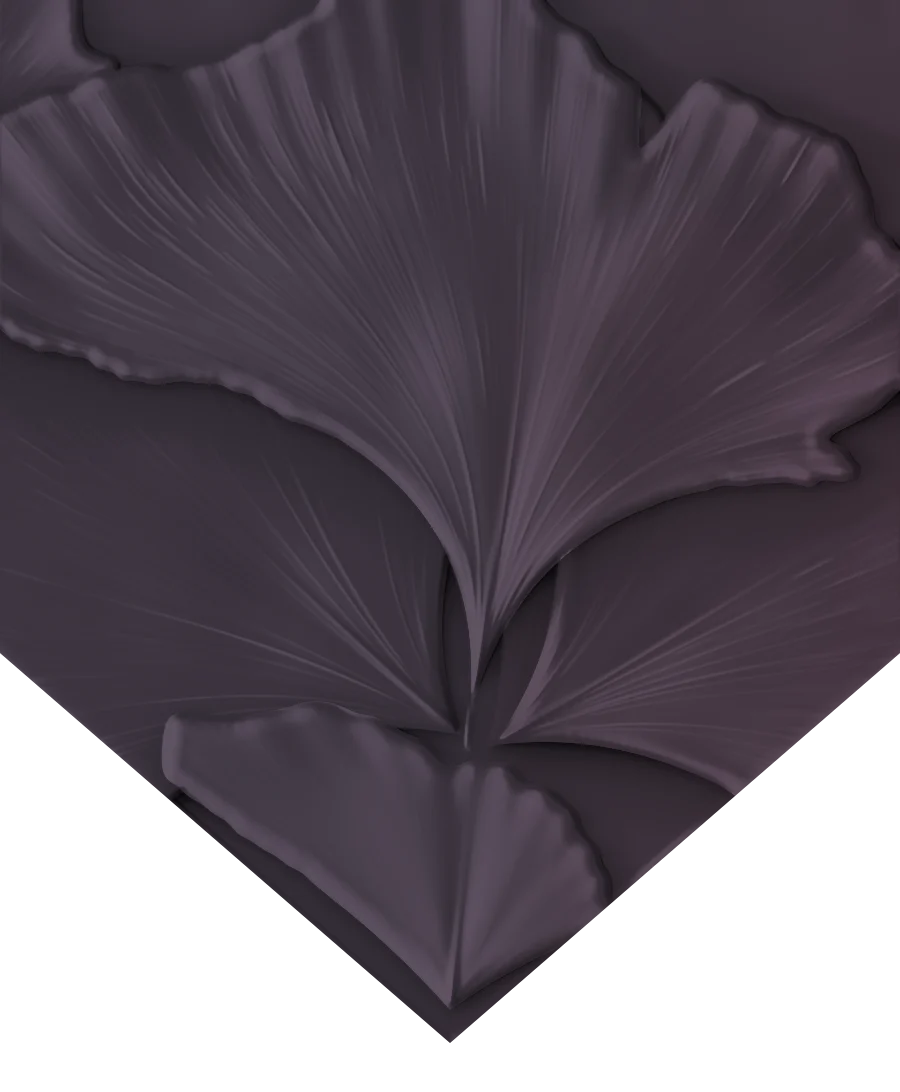
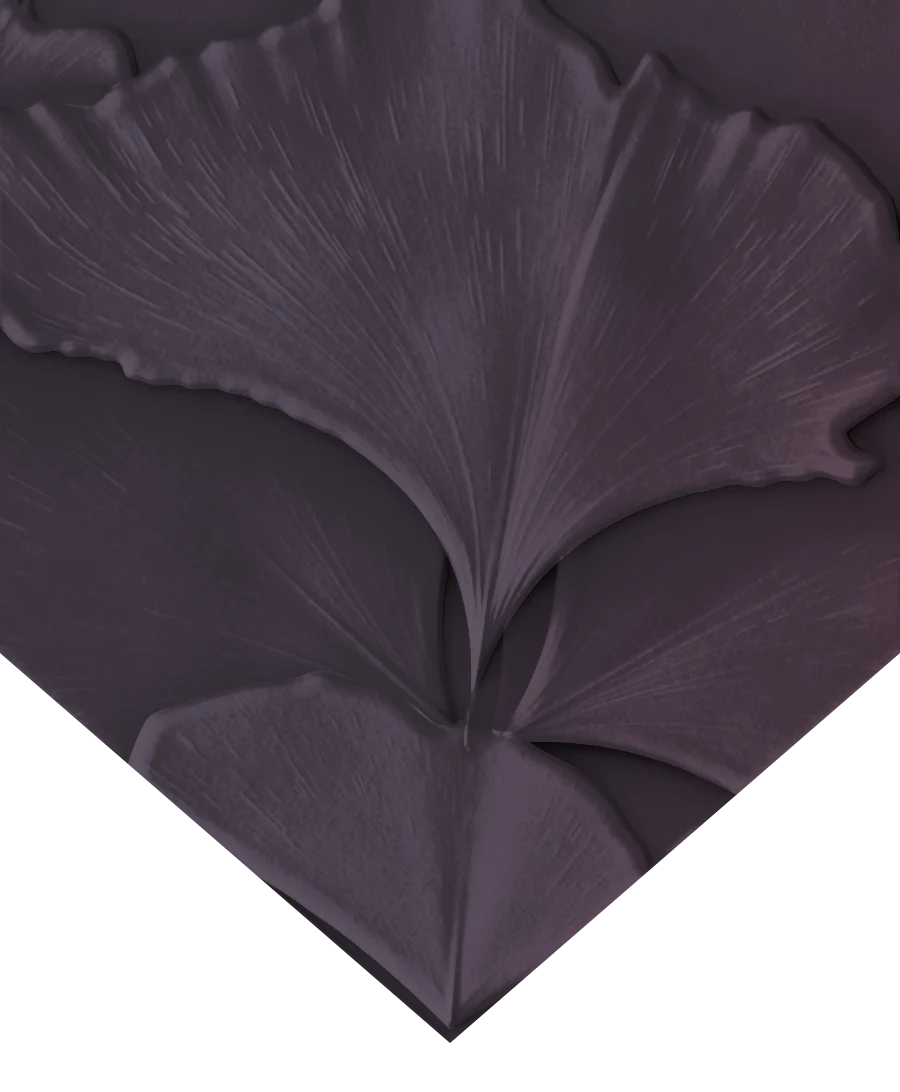
Website: envelope leaves matte with fine grain and hairline veins, more leaf coverage round the seal, looser ruffles, warmer pink lower right

diff --git a/Wedding Website/tools/ginkgo_env.py b/Wedding Website/tools/ginkgo_env.py
@@ -65,23 +65,26 @@ def pearl_shade(hgt, tint, ao=None, shadow=None):
     wrap = np.clip((nl + 0.35) / 1.35, 0, 1)
     broad = nh ** 5; spec = nh ** 24
     lit = 1.0 if shadow is None else 1 - shadow
-    lum = 0.15 + 0.40 * wrap * (0.42 + 0.58 * lit) + (0.52 * diff + 0.07 * broad) * lit
+    lum = 0.20 + 0.50 * wrap * (0.42 + 0.58 * lit) + 0.38 * diff * lit          # matte plaster: no sheen
     if ao is not None:
         lum = lum * (1 - ao)
     silver = np.array([176, 175, 188], np.float32); mauve = np.array([178, 151, 165], np.float32)
     alb = silver[None, None] * (1 - tint[..., None]) + mauve[None, None] * tint[..., None]
-    col = alb * lum[..., None] + np.array([255, 248, 255], np.float32) * (0.045 * spec * lit)[..., None]
+    col = alb * lum[..., None] + np.array([255, 248, 255], np.float32) * (0.0 * spec * lit)[..., None]
     return np.clip(col, 0, 255)
 
 def shade_sheet(hgt, tint):
     """full lighting of a composited height field: normals + cast shadows + ambient occlusion"""
     hs = cv2.GaussianBlur(hgt, (0, 0), max(0.7, 1.15 * SS))
+    hh_, ww_ = hs.shape                                             # fine plaster tooth
+    hs = hs + 0.22 * (noise(hh_, ww_, max(2, int(9 * SS)), 2, 71) - 0.5) + 0.07 * cv2.GaussianBlur(
+        np.random.default_rng(72).standard_normal((hh_, ww_)).astype(np.float32), (0, 0), max(0.6, 1.3 * SS)) * max(1.0, 1.3 * SS)
     sh = cast_shadow(hs) * SHADOW_K
     ao = (AO_K[0] * np.clip((cv2.GaussianBlur(hs, (0, 0), 9 * SS) - hs) / 12.0, 0, 1)
           + AO_K[1] * np.clip((cv2.GaussianBlur(hs, (0, 0), 34 * SS) - hs) / 30.0, 0, 1))
     return pearl_shade(hs, tint, ao=ao, shadow=sh), sh
 
-GLOSS_K = 0.13                # strength of the painted sheen (before the tone match)
+GLOSS_K = 0.085                # strength of the painted sheen (before the tone match)
 SHADOW_K = 0.56               # depth of the cast shadows (soft, never an ink outline)
 AO_K = (0.05, 0.30)           # contact / broad ambient occlusion
 DROP_K = (0.46, 0.58, 0.30)         # tight / wide contact shadow under every overlapping leaf (the stacked look)
@@ -109,7 +112,7 @@ def _wave(s, lam, rr, n=3):
 
 def leaf_fields(cx, cy, R=300, ang=-90, spread=55, seed=0, f0=0.15, flare=0.8, bend=0.0, droop=0.12, lobes=1.0, ruffle=1.0,
                 notch=0.0, notch_t=0.0, veins=1.0, thick=4.0, curl=0.6, cup=0.45, fold=0.7, stem=0.0, stem_bend=0.0,
-                bbox=None, pts=None, rim=1.0, lumps=0.55, fexp=1.2, **_):
+                bbox=None, pts=None, rim=1.0, lumps=0.55, fexp=1.2, lap_pt=None, lap=3.0, **_):
     """one sculpted ginkgo leaf: returns (x0, y0, alpha, height, vein) on the texture grid.
     Petiole end at (cx, cy) design px, blade pointing ang (deg), length R, half-angle `spread` at the margin.
     The sides are concave (the fan flares out with distance) and the veins follow that flare."""
@@ -137,7 +140,9 @@ def leaf_fields(cx, cy, R=300, ang=-90, spread=55, seed=0, f0=0.15, flare=0.8, b
     s = tcl * sp * R                                                        # arc position along the margin
     ph = rr.random(8) * 6.283
     # margin: broad lobes, scallops, crinkles and little torn nicks
-    w1 = _wave(s, 190, rr); w2 = _wave(s, 85, rr); w3 = _wave(s, 34, rr)
+    w1 = _wave(s, 240, rr); w2 = _wave(s, 105, rr); w3 = _wave(s, 46, rr)
+    renv = 0.25 + 0.75 * smooth01(0.5 + 0.55 * _wave(s, 420, rr, 2))                     # ruffles come in loose bunches
+    w1 = w1 * (0.5 + 0.5 * renv); w2 = w2 * renv; w3 = w3 * renv
     edge = R * (1 - droop * np.abs(tcl) ** 2.5 + lobes * 0.065 * _wave(s, 0.8 * sp * R, rr, 2))
     if prof is not None:                                                     # the traced outline, lobe by lobe
         tt = np.linspace(-1.25, 1.25, 501)
@@ -145,9 +150,9 @@ def leaf_fields(cx, cy, R=300, ang=-90, spread=55, seed=0, f0=0.15, flare=0.8, b
         ks = max(1.0, 7.0 / (sp * R) * 200)                                  # round the corners over ~7 px of arc
         pr = cv2.GaussianBlur(pr.reshape(1, -1).astype(np.float32), (0, 0), ks, borderType=cv2.BORDER_REPLICATE).ravel()
         edge = R * np.interp(tcl, tt, pr).astype(np.float32)
-        edge = edge + ruffle * (5.5 * w1 + 2.4 * w2 + 0.5 * w3)              # soft ruffles on top of the traced lobes
+        edge = edge + ruffle * (9.0 * w1 + 5.0 * w2 + 1.2 * w3)              # soft ruffles on top of the traced lobes
     else:
-        edge = edge + ruffle * (12.0 * w1 + 3.0 * w2 + 0.5 * w3)
+        edge = edge + ruffle * (15.0 * w1 + 6.0 * w2 + 1.2 * w3)
         for _c in range(int(rr.integers(1, 3))):                             # one or two little tears
             tn = rr.uniform(-0.8, 0.8)
             edge = edge - ruffle * rr.uniform(0.03, 0.06) * R * np.exp(-((tcl - tn) / rr.uniform(0.02, 0.035)) ** 2)
@@ -176,21 +181,27 @@ def leaf_fields(cx, cy, R=300, ang=-90, spread=55, seed=0, f0=0.15, flare=0.8, b
     ctab = np.clip((ctab - ctab.mean()) / (ctab.std() + 1e-6) * 0.5 + 0.45, 0, 1)
     comb = np.interp((np.clip(t, -1.25, 1.25) + 1.25) / 2.5 * (ncomb - 1), np.arange(ncomb), ctab).astype(np.float32)
     band = np.exp(-((dm - 14.0) / 12.0) ** 2) * smooth01(dm / 4.0)
-    lip = np.exp(-((dm - 12.0) / 9.0) ** 2) * lipv                                         # the rolled lip just inside the edge
-    h = h + rim * ((1 - wm) * 1.4 * lip + wm * (1.7 * lip + 0.10 * band * comb))
+    lip = np.exp(-((dm - 15.0) / 12.0) ** 2) * lipv                                         # the rolled lip just inside the edge
+    h = h + rim * ((1 - wm) * 1.4 * lip + wm * (1.7 * lip + 0.03 * band * comb))
     h = h + cup * 6.0 * np.sin(math.pi * rc ** 0.85) * (0.7 + 0.3 * np.cos(1.7 * tcl + ph[0])) * smooth01(rc / 0.2)
     h = h - fold * 4.0 * np.exp(-(tcl / 0.16) ** 2) * smooth01((rc - 0.05) / 0.4)        # shallow valley on the axis
+    if lap_pt is not None:                                                               # one lobe lies softly over the other at a split
+        lr = math.hypot(lap_pt[0] - cx, lap_pt[1] - cy)
+        lt = (math.atan2(lap_pt[1] - cy, lap_pt[0] - cx) - math.radians(bend) * lr / R - math.radians(ang)) / sp
+        lt = lt + 0.025 * np.sin(rc * 9.0 + ph[4]) * rc
+        h = h + lap * smooth01((tcl - lt) / 0.035 + 0.5) * np.exp(-np.clip(tcl - lt, 0, None) / 0.22) * smooth01((rc - 0.38) / 0.35)
     for _i in range(int(rr.integers(2, 4))):                                              # broad soft radial folds
         tc = rr.uniform(-0.85, 0.85); wd = rr.uniform(0.10, 0.25); amp = rr.choice([-1, 1]) * rr.uniform(0.4, 1.0)
         h = h + amp * np.exp(-((tcl - tc) / wd) ** 2) * smooth01((rc - 0.12) / 0.4)
     nearm = smooth01((rc - 0.70) / 0.30) ** 1.3
-    h = h + curl * (7.5 * smooth01((rc - 0.66) / 0.34) ** 2 + nearm * (5.0 * w1 + 2.2 * w2))   # margin curls up, fluted
+    h = h + curl * (7.5 * smooth01((rc - 0.66) / 0.34) ** 2 + smooth01((rc - 0.80) / 0.20) * ruffle * (4.0 * w1 + 2.2 * w2 + 0.6 * w3))   # margin curls up, fluted
     h = h + curl * 3.5 * np.exp(-ds / 22.0) * smooth01((rc - 0.2) / 0.3) * (1 + 0.08 * sw)   # sides roll up
     # veins: fine ridges of constant t (so they bend with the flare); sparse, most of them faint
     arc = A * r
     vein = np.zeros_like(h)
     vw = max(1.15, 0.8 / SS)
-    for f, amp in ((10, 1.0), (22, 0.9), (46, 0.8), (94, 0.75), (190, 0.7), (380, 0.6)):
+    hv = max(veins, 0.6) / max(veins, 1e-3)
+    for f, amp in ((10, 0.8), (22, 0.7), (46, 0.8), (94, 0.9), (190, 0.9), (380, 0.85), (760, 0.7), (1100, 0.6)):
         tj = t + (0.40 / f) * np.sin(t * f * 0.61 + ph[f % 7]) + (0.22 / f) * np.sin(t * f * 1.37 + ph[(f + 2) % 7])
         u = (tj + 1) * f * 0.5
         idx = np.round(u)
@@ -200,12 +211,12 @@ def leaf_fields(cx, cy, R=300, ang=-90, spread=55, seed=0, f0=0.15, flare=0.8, b
         if f <= 22:                                                      # primary veins: long, strongest by the petiole
             along = (0.15 + 0.85 * (1 - smooth01((rc - 0.2) / 0.55))) * smooth01((rnd - 0.25) / 0.3)
         else:                                                            # hair-fine streaks: short soft dashes
-            along = smooth01(1.6 * np.sin(rc * (7.0 + 16.0 * rnd2) + rnd * 6.283) - 0.55) * smooth01((rnd2 - 0.15) / 0.25) * (0.35 + 0.65 * smooth01((rc - 0.45) / 0.4))
-        on = smooth01((arc * 2 / f - 3.2) / 3.5)
-        vein += amp * rnd ** 1.25 * along * on * np.exp(-(dpx / vw) ** 2)
+            along = hv * smooth01(1.6 * np.sin(rc * (11.0 + 30.0 * rnd2) + rnd * 6.283 + 2.0 * np.sin(rc * 9.0 + rnd2 * 40.0)) - 0.35) * smooth01((rnd2 - 0.08) / 0.2) * (0.50 + 0.50 * smooth01((rc - 0.35) / 0.45))
+        on = smooth01((arc * 2 / f - 2.6) / 3.0)
+        vein += amp * rnd ** 1.1 * along * on * np.exp(-(dpx / vw) ** 2)
     vis = 0.50 + 0.50 * np.sin(2.3 * tcl + 3.1 * rc + ph[1]) ** 2
     vein = np.clip(veins * vis * vein * smooth01((rn - 0.02) / 0.10) * (1 - 0.7 * smooth01((rn - 0.9) / 0.1)), 0, 1.4)
-    h = h + 0.80 * vein
+    h = h + 0.60 * vein
     # hand-modelled surface: soft lumps and a fine tooth
     hh_, ww_ = h.shape
     h = h + lumps * 9.0 * (noise(hh_, ww_, max(2, int(150 * SS)), 2, seed + 7) - 0.5) * smooth01(rc / 0.3)
@@ -213,12 +224,12 @@ def leaf_fields(cx, cy, R=300, ang=-90, spread=55, seed=0, f0=0.15, flare=0.8, b
     stri = np.zeros_like(h)
     um = ((np.clip(t, -1.3, 1.3) + 1.3) / 2.6).astype(np.float32); vm = np.clip(rc, 0, 1).astype(np.float32)
     for nu in (160, 320, 640, 1280):
-        tex = rr.random((7, nu)).astype(np.float32) - 0.5                 # long silky streaks
-        smp = cv2.remap(tex, um * (nu - 1), vm * 6, cv2.INTER_CUBIC, borderMode=cv2.BORDER_REFLECT)
+        tex = rr.random((26, nu)).astype(np.float32) - 0.5                 # short broken streaks
+        smp = cv2.remap(tex, um * (nu - 1), vm * 25, cv2.INTER_CUBIC, borderMode=cv2.BORDER_REFLECT)
         spc = 2.6 * arc / nu
         stri += smp * smooth01((spc - 1.0) / 1.0) * (1 - smooth01((spc - 2.4) / 1.6))
     stri = stri * (0.15 + 0.85 * smooth01((noise(hh_, ww_, max(2, int(70 * SS)), 2, seed + 9) - 0.42) / 0.2))   # patchy: smooth areas between the streaks
-    h = h + 0.14 * veins * stri * (0.35 + 0.65 * vis) * smooth01((rn - 0.04) / 0.12)
+    h = h + 0.07 * max(veins, 0.4) * stri * (0.35 + 0.65 * vis) * smooth01((rn - 0.04) / 0.12)
     # petiole: a round stalk behind the base, running on into the blade as a ridge
     ca, sa = math.cos(math.radians(ang)), math.sin(math.radians(ang))
     u = dx * ca + dy * sa; v = -dx * sa + dy * ca
@@ -232,9 +243,9 @@ def leaf_fields(cx, cy, R=300, ang=-90, spread=55, seed=0, f0=0.15, flare=0.8, b
         alpha = np.maximum(alpha, a_st)
     # painted sheen: the top of the rolled rim, the vein ridges and the silky streaks catch the light
     roll = np.exp(-((dm - 10.0) / 8.0) ** 2)
-    rimg = rim * ((1 - wm) * 0.20 * roll * (0.5 + 0.5 * lipv) + wm * (0.30 * roll * (0.6 + 0.4 * lipv) + 0.25 * band * comb))
+    rimg = rim * ((1 - wm) * 0.08 * roll * (0.5 + 0.5 * lipv) + wm * (0.10 * roll * (0.6 + 0.4 * lipv) + 0.05 * band * comb))
     strk = np.clip(stri, -0.3, 1.0) * (0.35 + 0.65 * vis) * smooth01((rn - 0.04) / 0.12)                     # signed: light and dark streaks
-    gloss = rimg + veins * (1.50 * np.clip(vein, 0, 1) + 0.38 * strk)
+    gloss = rimg + max(veins, 0.7) * (1.25 * np.clip(vein, 0, 1) + 0.16 * strk)
     return x0, y0, alpha.astype(np.float32), (h * HSCALE).astype(np.float32), vein.astype(np.float32), gloss.astype(np.float32)
 
 def stem_fields(pts, width, bbox=None):
@@ -295,7 +306,10 @@ class Canvas:
 
     def render(self):
         rgb, sh = shade_sheet(self.hg, self.tint)
-        rgb = rgb * (self.alb * (1 - self.dark) * (1 - self.drop))[..., None]
+        gr = cv2.GaussianBlur(np.random.default_rng(73).standard_normal((self.h, self.w)).astype(np.float32), (0, 0), max(0.55, 0.9 * SS))
+        gr = gr / (gr.std() + 1e-6)                                 # matte grain + faint mottling of the plaster
+        mot = noise(self.h, self.w, max(2, int(26 * SS)), 3, 74) - 0.5
+        rgb = rgb * (self.alb * (1 - self.dark) * (1 - self.drop) * (1 + 0.011 * gr + 0.028 * mot))[..., None]
         g = cv2.GaussianBlur(self.gl, (0, 0), max(0.5, 0.8 * SS)) * (0.40 + 0.60 * (1 - sh)) * (1 - self.dark) * (1 - self.drop)
         return np.clip(rgb + GLOSS_K * g[..., None] * GLOSS[None, None], 0, 255)
 
@@ -335,15 +349,17 @@ BOT_T, HEM_T = 8.0, 3.5                       # paper thickness of the bottom fl
 
 # leaves, bottom layer first (design px). `pts` = the leaf margin traced from the rectified reference video, lobe by lobe.
 SIDE_LEAVES = [                               # on the two side flaps (the bottom flap lies over their lower ends)
+    dict(cx=1010, cy=1330, R=640, ang=-112, spread=40, seed=117, tint=0.16, tone=0.95, veins=0.5, ruffle=1.3, f0=0.45, lumps=0.9, cup=0.4),   # R3 fills the right flap up to the mouth
     dict(cx=-20, cy=630, seed=100, tone=0.92, ruffle=0.8, f0=0.6, veins=0.55, bend=14, lumps=1.1, cup=0.7,
          pts=[(420, 930), (370, 1000), (335, 1080), (285, 1160), (150, 1225), (-10, 1270), (-90, 1270)]),                 # L1 streaky, fills the left flap
     dict(cx=1010, cy=1520, R=540, ang=-124, spread=36, seed=115, tint=0.10, tone=0.95, veins=0.3, ruffle=0.9, f0=0.4, lumps=0.8),   # R2 under R0, fills the lower right
     dict(cx=350, cy=1500, R=440, ang=-84, spread=36, seed=104, tone=0.96, veins=0.45, ruffle=1.0, f0=0.3),   # L3 lies over the foot of L1, left of the seal
-    dict(cx=930, cy=960, seed=113, tint=0.10, ruffle=1.2, veins=0.2, f0=0.5, cup=0.3, fold=0.2, lumps=0.9,
-         pts=[(700, 845), (690, 800), (705, 762), (780, 748), (835, 772), (890, 790)]),                 # R1 small, upper right
+    dict(cx=-190, cy=930, R=445, ang=-2, spread=54, seed=118, tone=1.0, veins=0.7, ruffle=1.5, thick=5.0, f0=0.5, lumps=0.9, cup=0.45, fold=0.3, curl=0.5, rim=0.7),   # L4 big soft leaf filling the left flap
+    dict(cx=930, cy=960, seed=113, tint=0.14, ruffle=1.6, veins=0.3, f0=0.5, cup=0.3, fold=0.2, lumps=0.9,
+         pts=[(668, 880), (640, 820), (662, 760), (740, 728), (835, 740), (900, 770)]),                 # R1 small, upper right
     dict(cx=190, cy=1440, seed=102, tone=0.94, f0=0.2,
          pts=[(-25, 1200), (10, 1140), (60, 1080), (130, 1035), (230, 1030), (290, 1085), (335, 1160)]),   # L2 rising on the left
-    dict(cx=520, cy=1330, seed=112, tint=0.14, ruffle=1.3, veins=0.18, f0=0.5, curl=0.9, lumps=0.9, cup=0.3, fold=0.2,
+    dict(cx=520, cy=1330, seed=112, tint=0.14, ruffle=1.5, veins=0.3, f0=0.5, curl=0.55, lumps=0.9, cup=0.3, fold=0.2,
          pts=[(530, 960), (545, 895), (610, 868), (700, 872), (745, 905), (785, 955), (850, 1020), (878, 1080),
               (870, 1150), (840, 1200)]),                                                               # R0 soft, right of the seal
 ]
@@ -358,9 +374,9 @@ BOT_LEAVES = [                                # on the bottom flap
     dict(cx=490, cy=1885, seed=133, f0=0.3, flare=0.6, bend=-45, veins=0.65, ruffle=1.5,
          pts=[(100, 1592), (55, 1562), (5, 1520), (-30, 1440), (-10, 1370), (60, 1310), (150, 1255), (260, 1215)]),                                                               # B2 big left
     dict(cx=1100, cy=1650, seed=134, tint=0.22, f0=0.6, veins=0.8, ruffle=0.5,
-         pts=[(620, 1120), (585, 1160), (560, 1200), (555, 1245), (552, 1290), (525, 1305), (480, 1340), (456, 1420), (452, 1500), (462, 1585), (502, 1652)]),   # B3 big pink
+         pts=[(620, 1120), (585, 1160), (560, 1200), (548, 1238), (530, 1262), (498, 1275), (466, 1315), (452, 1420), (452, 1500), (462, 1585), (502, 1652)]),   # B3 big pink
     dict(cx=455, cy=1500, seed=135, tone=1.05, f0=0.15,
-         pts=[(250, 1345), (225, 1310), (207, 1260), (215, 1215), (260, 1200), (300, 1205), (340, 1195)]),   # B1 sprig leaf
+         pts=[(250, 1345), (222, 1310), (200, 1255), (208, 1200), (255, 1175), (305, 1178), (352, 1168), (400, 1200)]),   # B1 sprig leaf
 ]
 BODY_CREASE = [(452, 990), (454, 1250), (455, 1500)]                                    # centre crease of the bottom flap
 BODY_TWIG = [(455, 1490), (457, 1650), (472, 1790), (486, 1900), (493, 1965)]
@@ -369,12 +385,12 @@ FLAP_LEAVES = [
     dict(cx=462, cy=735, R=700, ang=-138, spread=66, seed=202, ruffle=0.7, tone=0.93, f0=0.45),    # F2 lower left
     dict(cx=486, cy=748, R=520, ang=-46, spread=48, seed=206, tint=0.06, f0=0.6, tone=0.74, rim=0.0, veins=0.5, thick=2.0),   # in the shade under F1
     dict(cx=492, cy=745, R=600, ang=-30, spread=52, seed=201, tint=0.06, f0=0.45),                 # F3 lower right
-    dict(cx=450, cy=1010, seed=204, f0=0.85, ruffle=0.5, curl=0.15, rim=0.5, tone=1.06, veins=0.15, lumps=0.5,
-         pts=[(150, 770), (175, 712), (240, 722), (330, 700), (350, 712), (410, 740), (450, 765), (500, 762), (560, 800),
-              (600, 860), (625, 920)]),                                                   # F4 smooth, over the tip
-    dict(cx=470, cy=712, seed=203, f0=0.13, flare=0.85, fexp=1.6, stem=42, stem_bend=0.1, veins=1.2, ruffle=1.3,
+    dict(cx=450, cy=1030, seed=204, f0=0.85, ruffle=0.35, curl=0.15, rim=0.5, tone=1.06, veins=0.12, lumps=0.35,
+         pts=[(120, 790), (150, 715), (230, 690), (320, 672), (380, 690), (430, 722), (480, 728), (540, 745), (600, 790),
+              (645, 850), (670, 920)]),                                                   # F4 smooth, over the tip
+    dict(cx=470, cy=712, seed=203, f0=0.13, flare=0.85, fexp=1.6, stem=42, stem_bend=0.1, veins=1.2, ruffle=1.6, lap_pt=(638, 150),
          pts=[(15, 340), (-30, 220), (-10, 120), (60, 85), (120, 68), (190, 48), (260, 40), (320, 20), (380, -30),
-              (470, -50), (560, 5), (606, 40), (628, 80), (641, 175), (656, 90), (675, 62), (720, 72), (790, 125), (850, 150),
+              (470, -50), (560, 5), (600, 38), (622, 70), (638, 118), (656, 76), (678, 58), (720, 72), (790, 125), (850, 150),
               (890, 200), (930, 330), (910, 440), (875, 485), (903, 546)]),               # F1 the big fan
 ]
 
@@ -412,13 +428,13 @@ def build_body():
     cs.alb = cs.alb * (1 - hem) + 1.045 * hem
     cs.gl = cs.gl * (1 - hem) + 0.3 * np.exp(-((dmo - (HEM - 2.4)) / 1.8) ** 2) + 0.3 * np.exp(-((dmo - 2.2) / 1.8) ** 2)
     cs.dark = 0.20 * np.exp(-np.clip(dmo - HEM, 0, None) / 9.0) * (dmo > HEM)
-    cs.gl += 0.2 * np.exp(-((xx - W / 2 + 1.5) / 2.2) ** 2)                      # the centre seam between the side flaps
+    cs.gl += 0.07 * np.exp(-((xx - W / 2 + 1.5) / 2.2) ** 2)                      # the centre seam between the side flaps
     cs.dark = np.maximum(cs.dark, 0.16 * np.exp(-np.clip(xx - W / 2, 0, None) / 7.0) * (xx > W / 2))
     # ---- layer 2: the bottom flap, a lighter sheet of its own lying over the side flaps
     paper_b = flat_paper(TH, TW, 12) * 0.6
     cb = Canvas(TW, TH, tint, paper_b)
     _lay(cb, BOT_LEAVES, None, bb)
-    _f = stem_fields(BODY_CREASE, 3.5, bb); cb.layer(_f[:3] + (_f[3] * 0.4,), drop=0.2, soft=0)
+    _f = stem_fields(BODY_CREASE, 3.5, bb); cb.layer(_f[:3] + (_f[3] * 0.18,), drop=0.08, soft=0)
     _f = stem_fields(BODY_TWIG, 6.0, bb); cb.layer(_f[:3] + (_f[3] * 0.45,), drop=0.25, soft=0)
     m = smooth01(dbf * SS / 1.5 + 0.5)
     bevel = BOT_T * (1 - (1 - np.clip(dbf / 9.0, 0, 1)) ** 2)                   # rounded cut edge of the paper
@@ -426,7 +442,7 @@ def build_body():
     cv.hg = cs.hg * (1 - m) + (cb.hg + HSCALE * bevel) * m
     cv.alb = cs.alb * 0.95 * (1 - m) + cb.alb * 1.05 * m
     seam_hi = np.exp(-((dbf - 2.4) / 1.9) ** 2)                                # lit edge of the flap, the same on both sides
-    cv.gl = cs.gl * (1 - m) + (cb.gl * (1 - 0.6 * seam_hi) + 0.6 * seam_hi) * m
+    cv.gl = cs.gl * (1 - m) + (cb.gl * (1 - 0.6 * seam_hi) + 0.22 * seam_hi) * m
     cv.dark = np.maximum(cs.dark * (1 - m), (0.36 + 0.34 * (xx > W / 2)) * np.exp(-np.clip(-dbf, 0, None) / (11.0 + 5.0 * (xx > W / 2))) * (1 - m))   # its soft shadow on the side flaps
     cv.tint = np.clip(cv.tint - 0.05 * m, 0, 1)
     cv.drop = cs.drop * (1 - m) + cb.drop * m
@@ -535,7 +551,7 @@ def build_envelope():
         hh, ww = c.shape[:2]
         yy, xx = np.mgrid[0:hh, 0:ww].astype(np.float32)
         t = np.clip(0.75 * (xx / ww) + 0.55 * ((yy + y0) / TH) - 0.45, 0, 1)[..., None]
-        return np.clip(c * (np.array([1.02, 0.995, 1.0], np.float32) * (1 - t) + np.array([1.04, 0.985, 0.985], np.float32) * t), 0, 255)
+        return np.clip(c * (np.array([1.005, 0.982, 0.987], np.float32) * (1 - t) + np.array([1.058, 0.958, 0.962], np.float32) * t), 0, 255)
     return grade(tone_apply(rgb, tm)), a, grade(tone_apply(frgb, tm)), fa
 
 def preview(out):
